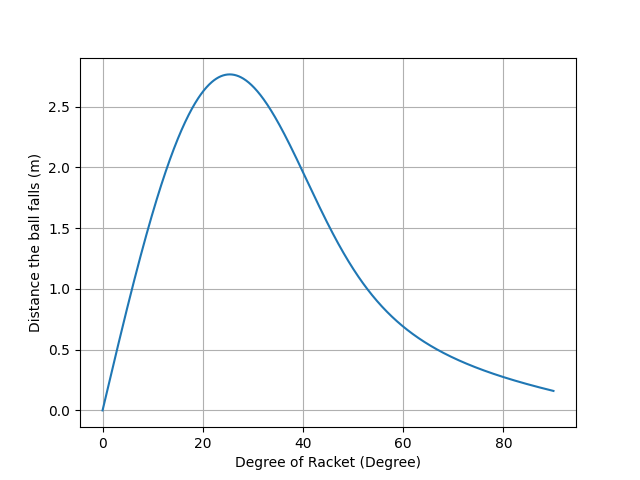
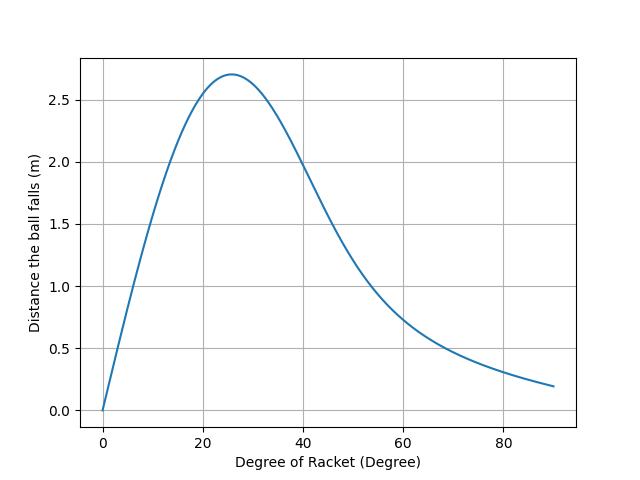
Update 13/3/24

diff --git a/Trajectory.py b/Trajectory.py
@@ -1,0 +1,109 @@
+import numpy as np
+import matplotlib.pyplot as plt
+import math
+from scipy.optimize import fsolve
+
+# Constants
+g = 9.81  # Gravity (m/s^2)
+S_x_max = 2.65  # m
+h_drop = 2  # m
+h_hit = 0.4  # m
+m_ball = 0.024
+e = 0.378
+I_bat = 0.024
+r = 0.4
+
+# Free Falling of Squash ball
+u_y = -math.sqrt(2 * g * (h_drop - h_hit))  # m/s
+
+# Assume Suitable Projectile motion for longest Range
+thetaV = 40.71  # deg
+float_time = math.sqrt((2 * (S_x_max * math.tan(math.radians(thetaV)) + h_hit)) / g)
+v_x = S_x_max / float_time
+v_y = math.sqrt((v_x / math.cos(math.radians(thetaV)))**2 - v_x**2)
+
+# Find ThetaB for suitable Projectile motion for longest Range
+thetaB = math.atan(v_x / (v_y + abs(u_y)))  # Radians
+u_per = u_y * math.cos(thetaB)
+u_par = u_y * math.sin(thetaB)
+
+v_per = (v_x - abs(u_par) * math.cos(thetaB)) / math.sin(thetaB)
+
+# Find angular velocity (w) of the bat during collision
+A = I_bat * (1 + e)
+B = e * I_bat / r - m_ball * r
+C = I_bat / r - m_ball * r
+
+w_i = (B * u_per + C * v_per) / A
+
+# Function to calculate S_x given thetaB
+def calculate_S_x(thetaB_deg):
+    thetaB_rad = math.radians(thetaB_deg)
+    term1 = (A * w_i - B * u_y * math.cos(thetaB_rad)) / C
+    term2 = abs(u_y) * math.sin(thetaB_rad)
+    
+    v_x_expr = term1 * math.sin(thetaB_rad) + term2 * math.cos(thetaB_rad)
+    v_y_expr = term1 * math.cos(thetaB_rad) - term2 * math.sin(thetaB_rad)
+    
+    time_expr = (v_y_expr + math.sqrt(v_y_expr**2 + 2 * g * h_hit)) / g
+    S_x = v_x_expr * time_expr
+    return S_x
+
+# Function to find thetaB that gives a specific S_x
+def find_thetaB(S_x_target):
+    def equation(thetaB_deg):
+        return calculate_S_x(thetaB_deg) - S_x_target
+    return fsolve(equation, x0=30)  # Initial guess for thetaB
+
+# Desired S_x values
+S_x_values = [0.94, 1.32, 1.7, 2.08, 2.46]
+
+# Find corresponding thetaB values
+thetaB_values = [find_thetaB(S_x_target)[0] for S_x_target in S_x_values]
+
+# Function to calculate projectile motion
+def projectile_path(thetaB, v_x, v_y):
+    t_flight = (v_y + math.sqrt(v_y**2 + 2 * g * h_hit)) / g
+    t = np.linspace(0, t_flight, num=100)
+    x = v_x * t
+    y = h_hit + v_y * t - 0.5 * g * t**2
+    return x, y
+
+# Compute and plot trajectories
+plt.figure(figsize=(10, 6))  # Wider figure for better spacing
+colors = ['#6495ED', '#27ae60', '#f4d03f', '#f39c12', '#e74c3c']  # Light blue, Green, Yellow, Orange, Red
+
+for i, S_x in enumerate(S_x_values):
+    thetaB = thetaB_values[i]
+    thetaB_rad = math.radians(thetaB)
+    
+    # Calculate v_x and v_y using the derived expressions
+    term1 = (A * w_i - B * u_y * math.cos(thetaB_rad)) / C
+    term2 = abs(u_y) * math.sin(thetaB_rad)
+    
+    v_x = term1 * math.sin(thetaB_rad) + term2 * math.cos(thetaB_rad)
+    v_y = term1 * math.cos(thetaB_rad) - term2 * math.sin(thetaB_rad)
+    
+    # Calculate trajectory
+    x, y = projectile_path(thetaB_rad, v_x, v_y)
+    plt.plot(x, y, label=f'ThetaB = {thetaB:.2f}°', color=colors[i], linewidth=2)
+
+# Graph Labels
+plt.xlabel("Horizontal Distance (m)", fontsize=12, fontweight='bold')
+plt.ylabel("Vertical Distance (m)", fontsize=12, fontweight='bold')
+plt.title("Projectile Trajectory for Different Goals", fontsize=14, fontweight='bold')
+
+# Legend
+plt.legend(loc='upper right', fontsize=10, frameon=True, shadow=True, bbox_to_anchor=(1.25, 1))  # Move legend outside
+
+# Grid
+plt.grid(True, linestyle='--', linewidth=0.5, alpha=0.7)
+
+# Background color
+plt.gca().set_facecolor('#f7f7f7')  # Light gray background
+
+# Add padding
+plt.tight_layout()
+
+# Show plot
+plt.show()

diff --git a/squash_ball_motion.py b/squash_ball_motion.py
@@ -10,17 +10,17 @@ h_hit = 0.4  # m
 
 m_ball = 0.024
 e = 0.378
-I_bat = 0.29
-r = 0.35
+I_bat = 0.024
+r = 0.4
 
 # Free Falling of Squash ball
 u_y = -math.sqrt(2 * g * (h_drop - h_hit))  # m/s
 
 # Assume Suitable Projectile motion for longest Range
-thetaV = 45  # deg
+thetaV = 40.71  # deg
 float_time = math.sqrt((2 * (S_x_max * math.tan(math.radians(thetaV)) + h_hit)) / g)
 v_x = S_x_max / float_time
-v_y = v_x  # 45 deg
+v_y =  math.sqrt((v_x/math.cos(math.radians(thetaV)))**2 - v_x**2)
 
 # Find ThetaB for suitable Projectile motion for longest Range
 thetaB = math.atan(v_x / (v_y + abs(u_y)))  # Radians
